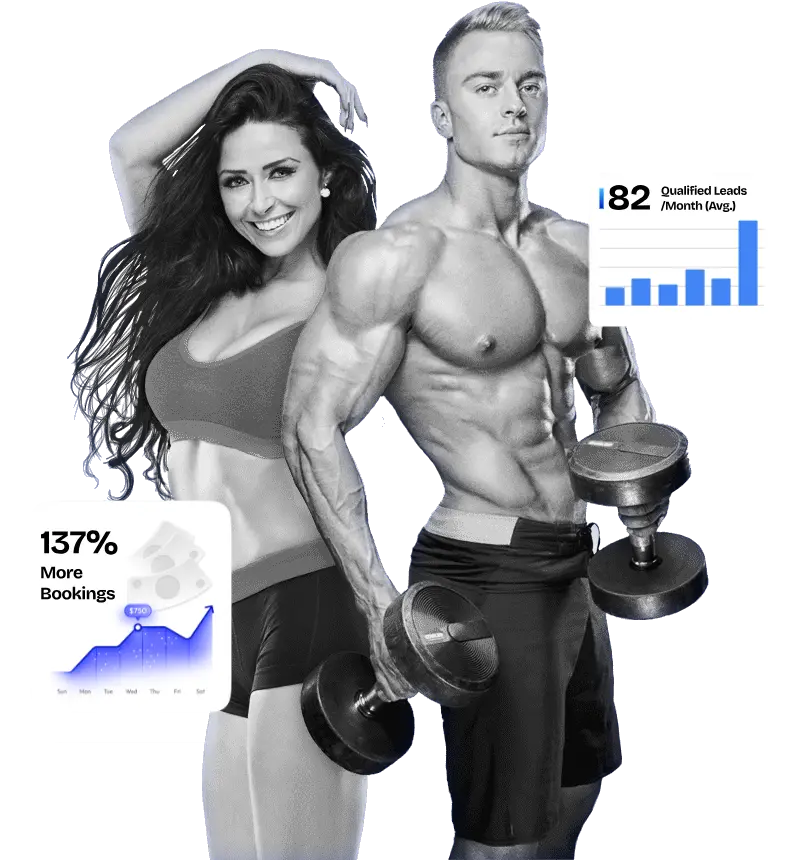
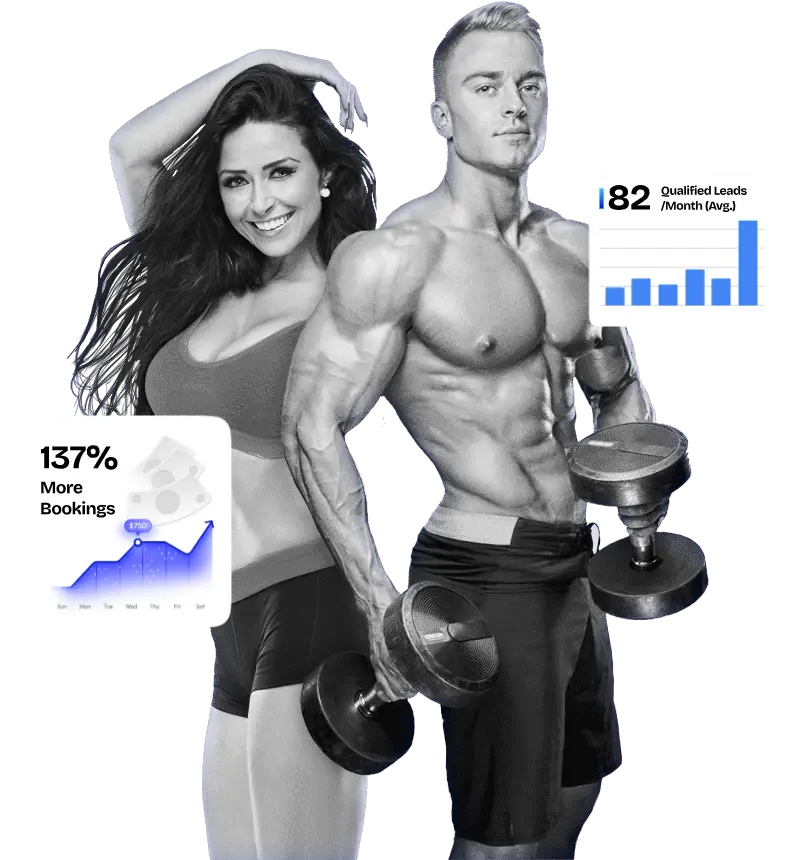
fix the hero section

Changed region(s): [[0.0312, 0.4837, 0.3117, 0.8465]]

diff --git a/src/components/fitness-coach-website-design/hero.tsx b/src/components/fitness-coach-website-design/hero.tsx
@@ -1,7 +1,7 @@
 "use client";
 import Image from "next/image";
 import Link from "next/link";
-import { useEffect, useRef } from "react";
+import { useEffect, useRef, useState } from "react";
 import gsap from "gsap";
 
 const Hero = () => {
@@ -12,6 +12,18 @@ const Hero = () => {
   const imageRef = useRef<HTMLImageElement | null>(null);
   const floatingCtaRef = useRef<HTMLDivElement | null>(null);
   const socialRef = useRef<HTMLDivElement | null>(null);
+  const [isShortHeight, setIsShortHeight] = useState(false);
+
+  useEffect(() => {
+    const checkHeight = () => {
+      setIsShortHeight(window.innerHeight <= 947);
+    };
+
+    checkHeight();
+    window.addEventListener("resize", checkHeight);
+
+    return () => window.removeEventListener("resize", checkHeight);
+  }, []);
 
   useEffect(() => {
     const tl = gsap.timeline({ defaults: { ease: "power3.out" } });
@@ -130,7 +142,9 @@ const Hero = () => {
         height={100}
         width={100}
         alt="dots"
-        className="absolute 2xl:bottom-0 md:bottom-[7vh] bottom-0 left-0 z-30 w-full md:h-[470px]"
+        className={`absolute 2xl:bottom-0 md:bottom-[7vh] bottom-0 left-0 z-30 w-full ${
+          isShortHeight ? "md:h-[420px]" : "md:h-[470px]"
+        }`}
       />
 
       {/* Background */}
@@ -138,12 +152,13 @@ const Hero = () => {
 
       {/* Main content wrapper */}
       <div className="relative max-w-[1525px] mx-auto xl:px-10 px-4 flex md:mt-[17.5vh] mt-[2vh]">
-
         {/* ← Content slides in from left */}
         <div
           ref={contentRef}
           style={{ willChange: "transform, opacity" }}
-          className="2xl:max-w-[650px] xl:max-w-[590px] lg:max-w-[450px] md:max-w-[350px] w-full mt-[10.5vh] relative z-40"
+          className={`2xl:max-w-[650px] xl:max-w-[590px] lg:max-w-[450px] md:max-w-[350px] w-full relative z-40 ${
+            isShortHeight ? "mt-[5vh]" : "mt-[10.5vh]"
+          }`}
         >
           <h3 className="font-bricolage font-normal 2xl:text-[30px] xl:text-[27px] lg:text-[20px] md:text-[16px] text-[14px] leading-[142%] capitalize text-white">
             Lead Capturing Fitness Coach Website Design
@@ -155,10 +170,15 @@ const Hero = () => {
             </span>
           </h1>
           <p className="font-bricolage font-normal tracking-[0em] leading-[130%] 2xl:text-[20px] xl:text-[18px] lg:text-[15px] text-[15px] text-white my-[3vh]">
-            Conversion-focused fitness coach websites are designed to attract, engage, and turn visitors into paying clients consistently
+            Conversion-focused fitness coach websites are designed to attract,
+            engage, and turn visitors into paying clients consistently
           </p>
           <p className="font-bricolage font-normal tracking-[0em] leading-[130%] 2xl:text-[20px] xl:text-[18px] lg:text-[15px] text-[15px] text-white mt-[-1vh]">
-             If you're a personal trainer, online coach, or fitness brand, your website should do more than just look good. It should guide visitors, build trust, and convert them into real clients. I design modern, high-performing websites tailored specifically for fitness professionals who want predictable growth.
+            If you're a personal trainer, online coach, or fitness brand, your
+            website should do more than just look good. It should guide
+            visitors, build trust, and convert them into real clients. I design
+            modern, high-performing websites tailored specifically for fitness
+            professionals who want predictable growth.
           </p>
 
           {/* ✅ Animated CTA Button */}
@@ -187,7 +207,8 @@ const Hero = () => {
           </div>
 
           <p className="font-bricolage font-extralight tracking-[0em] leading-[130%] xl:text-[18px] lg:text-[15px] text-[13px] text-white">
-            I only take on a limited number of fitness coach projects each month to maintain quality, focus, and results.
+            I only take on a limited number of fitness coach projects each month
+            to maintain quality, focus, and results.
           </p>
         </div>
         {/* ↑ contentRef ends here — social pill is NOT inside it */}
@@ -298,7 +319,6 @@ const Hero = () => {
             </Link>
           </div>
         </div>
-
       </div>
     </section>
   );
